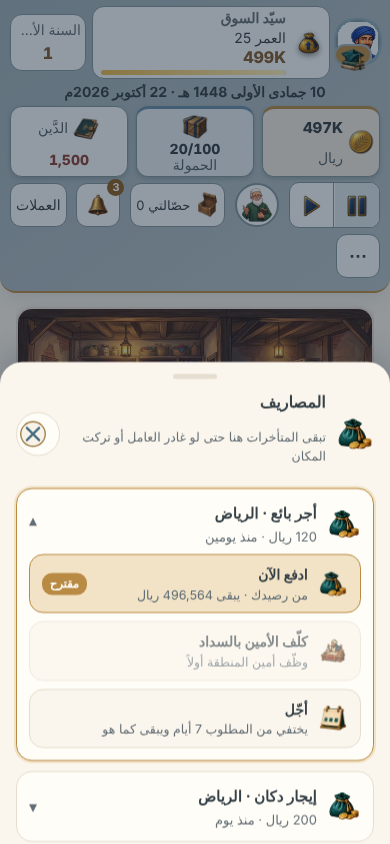
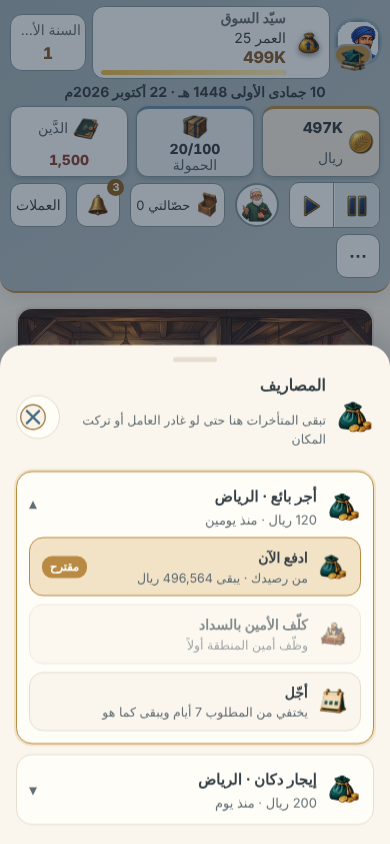
037ج: التقرير النهائي (330 نجح)
Claude-Session: https://claude.ai/code/session_01PtWQrp5pxvFKfP7qfxPnS3

Changed region(s): [[0.0, 0.4005, 1.0, 0.9858], [0.0308, 0.4621, 0.1231, 0.5237]]

diff --git a/specs/037-icons-details/report-c.md b/specs/037-icons-details/report-c.md
@@ -1,0 +1,33 @@
+# تقرير 037ج: تطبيق المكوّنات على المال والعمّال والدكاكين والسوق (T020–T023)
+
+## ما نُفّذ
+- **المساعدان المركزيان (00-state):** `foldDet` و`foldLazy` يمرّان على `dfold` (06o-details)، فتتحول أقسام الطيّ (ومنها الـ26 موضعاً) إلى **صف شارة (أيقونة + اسم ظاهر + ›) يفتح نافذة بمحتوى القسم نفسه**. داخل النافذة تبقى الأقسام المتداخلة قوائم عادية (لا نافذة داخل نافذة). الأيقونة من `DETAIL_MAP` (أسماء السجل فقط).
+- **شارات العقارات:** صف «المصاريف / العمّال / الدكاكين» بعدد ما ينتظرك (يُحقن قبل أول قسم عبر `dfold`، فلم ألمس `10-screen-lords.js` إلا في جسم «سلع الدكان وتقرير البائع»).
+  - **المصاريف:** بطاقات المتأخرات بعناوين حقيقية («أجر بائع · الرياض»، «إيجار دكان · الرياض»): ادفع الآن (`A.settlePayment`)، كلّف الأمين (معطّل بسببه)، أجّل (إخفاء مؤقت). قائمة «متأخرات مسجلة» القديمة تُخفى لأن البطاقات تغطي كل ما فيها. كشف المدفوعات يبقى قائمة واحدة.
+  - **العمّال:** بطاقة «رقِّه إلى مدير …» (`A.hireManager` بنفس تأكيد المسار القديم) + **بطاقات الكفاءة (035أ) لكل العمّال في النافذة**؛ `skillFold` صار في الصف شارة صغيرة «الكفاءة · الدرجة» بدل قائمة لكل عامل.
+  - **الدكاكين:** اشترِ من السوق وعبّئ (`A.officeRestock`)، أودع حمولة القافلة (`A.toStore`)، وظّف بائعاً (`A.hireStaff`)، كلّف الأمين بالتعبئة (معطّل بسببه)، دكان بلا سلعة (`A.shopQuick`).
+  - **بيع الأصول:** قائمة «بيع الأصول في هذه المدينة» شارة (10d). نصوص الزكاة المعتمدة في نافذة التأكيد لم تُمسّ حرفاً.
+- **السوق:** تبويبات للفئات (شرائح) بدل 7 قوائم (`ui.mtab` اختياري)، و«الكمية والتفاصيل» في بطاقة الصفقة شارة تفتح نافذة (الأزرار نفسها)، و«ما يحدث»/«الزعيم»/«ملخص السوق» شارات. «أفضل الصفقات» تبقى قائمة.
+- **المفاتيح:** `DETAILS.on` و`DETAILS.apply.{fold,money,team,shops,market}`؛ `?details=off` يعيد القديم حرفاً.
+
+## قراراتي
+1. **اتفاقية الاختبار (كـ`foldAuto`):** المتصفح الآلي بلا `?player=1` ولا `?details=1` يرى القوائم القديمة، فتبقى مئات اختبارات الوظائف دون تعديل؛ اللاعب الحقيقي و`?player=1` و`?details=1` يرون الجديد. صفحة التجربة صارت `?details=lab`.
+2. **اختبار قائم عُطّل عمداً بتعليل مكتوب فيه:** `screen-length-ui` (فحصا حفظ الطيّ في `ui.fold` ومقارنة الأزرار) يستعمل `details=off` لأنهما يختبران `<details>` تحديداً؛ بديلهما للوضع المطبَّق في `details-apply-ui` (نافذة الشارة ونفس الوظائف). أطوال اللاعب في الاختبار نفسه اجتازت (2623–2750px).
+3. «قوائمي» (طرقي المفضلة ومراقبتي) خارج هذه الحزمة (037د/T032)، فلا تُحسب في حد القائمتين بالسوق وهذا مذكور في الاختبار.
+4. **غير موجود في المحرك فلم يُخترع:** «انقل بائعاً بين دكانين»، «اقبل اقتراح التسعير/سعّر» (لا اقتراح تسعير يُقبل؛ تسعير الأمين تلقائي)، «عبّئ من مخزنك» (الدكان يبيع من المخزن مباشرة). تُضاف حين يوفّر المحرك إجراءها.
+5. ازدواج بصري صغير في السوق: صف الفلاتر القديم (الكل/أطعمة…) وفوقه تبويبات الفئات؛ يُدمجان في 037د.
+6. **لم أُعد ختم بصمة autopilot وحدها:** أعدتُ الالتقاط الفعلي (تشغيل 3 مراحل + guided) لأن مصدر الواجهة تغيّر؛ ولن يتكرر لهذا السبب ما لم يتغير المصدر.
+
+## الأرقام (390 / 360، قبل → بعد: الطول px / المنسدلات غير ⓘ)
+| الشاشة | 390 | 360 |
+|---|---|---|
+| العقارات | 5241/21 → 3940/0 | 5353/21 → 4022/0 |
+| السوق | 3427/12 → 2000/2 | 3545/12 → 2035/2 |
+لا تمرير أفقي في أيٍّ منها؛ الطول لم يزد في أيٍّ منها. لقطات قبل/بعد وللنوافذ في `docs/shots/details-apply/`.
+
+## الاختبارات
+- `test/details-apply-ui.test.js` (جديد، في all.sh وmap.json): الأطوال، ≤2 منسدلة، لمس ≥44 وaria-label واسم وأيقونة مسجَّلة، **لا وظيفة مفقودة** (كل `data-act` قديم موجود في الشاشة أو نافذة شارة؛ و`settlepayment` يقابله خيار «ادفع الآن»)، العناوين الحقيقية، تعطيل الأمين بسببه، بطاقة الترقية وبطاقة الكفاءة، التبويبات وحفظها اختيارياً، شارة الصفقة، ومطفأ = بلا مكوّنات والوضع الآلي الافتراضي قديم.
+- `details` و`details-ui` من 037ب تعمل بـ`?details=lab`.
+- الحزمة الكاملة بعد آخر تعديل وإعادة الالتقاط: **330 نجح، 0 فشل** (1,227.7 ث). (الجولة الأولى قبل الإصلاح: 9 إخفاق: 3 بصمة autopilot، و`celebrate-ui` بسببها، و`screen-length-ui` أُصلح بتعليل، و`salem-ui` وثلاثة `guided-*` عابرة تحت الحمل ونجحت لاحقاً.)
+
+⛔ توقف لمراجعة Opus؛ 037د لم يبدأ.
